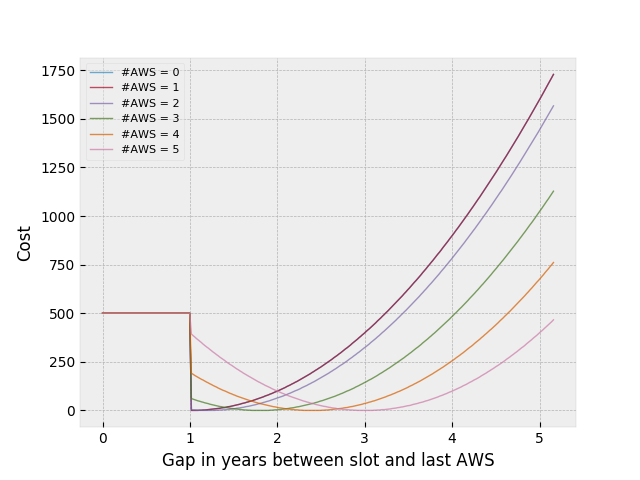
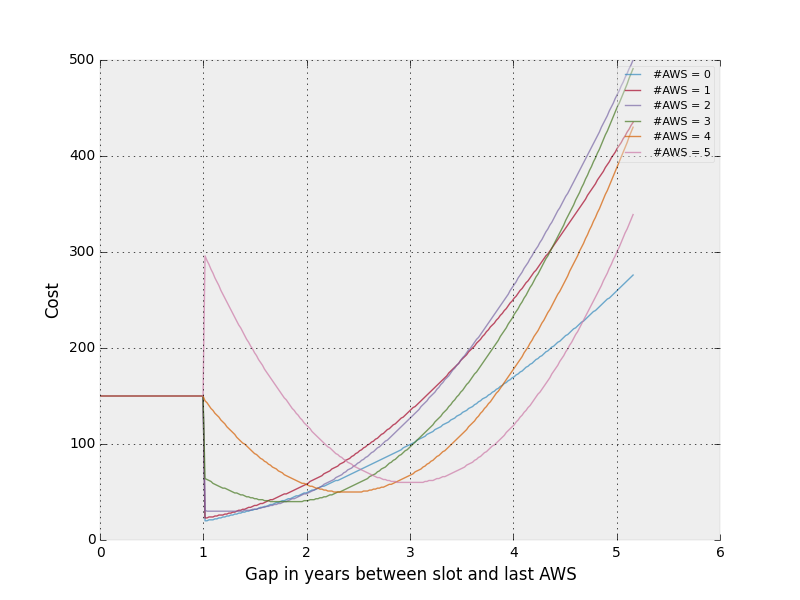
0.6 times gap.

diff --git a/compute_cost.py b/compute_cost.py
@@ -20,7 +20,8 @@ import math
 __fmt__ = '%Y-%m-%d'
 
 def parabola( x0, offset, x ):
-    ys = offset + offset * (x-x0) ** 2.0
+    minX = x0 * 0.6
+    ys = offset + offset * (x-minX) ** 2.0
     return ys
 
 def computeCost( slot_date, lastDate, nAWS ):
@@ -31,8 +32,8 @@ def computeCost( slot_date, lastDate, nAWS ):
         cost = 15
     else:
         cost = parabola( nAWS, nAWS + 1, nyears )
-
     return int(10 * cost)
+
 
 def random_date(start, end):
     """
@@ -45,8 +46,12 @@ def random_date(start, end):
     return start + datetime.timedelta(seconds=random_second)
 
 def test( ):
-    import pylab
-    pylab.style.use( 'ggplot' )
+    import matplotlib as mpl
+    import matplotlib.pyplot as plt
+    mpl.style.use( 'bmh' )
+    mpl.rcParams['axes.linewidth'] = 0.2
+    mpl.rcParams['lines.linewidth'] = 1.0
+    mpl.rcParams['text.usetex'] = False
     # Generate random test data.
     start = datetime.datetime.strptime( '2017-03-18', __fmt__ )
     end = datetime.datetime.strptime( '2021-03-18', __fmt__  )
@@ -56,12 +61,12 @@ def test( ):
             date = start + datetime.timedelta( days = i * 7 )
             xval.append( (date - start).days / 365.0 )
             yval.append( computeCost( date, start, naws ) )
-        pylab.xlabel( 'Gap in years between slot and last AWS' )
-        pylab.ylabel( 'Cost' )
-        pylab.plot( xval, yval, alpha = 0.7, label = '#AWS = %d' % naws )
-        pylab.legend( framealpha = 0.4, fontsize = 8 )
+        plt.xlabel( 'Gap in years between slot and last AWS' )
+        plt.ylabel( 'Cost' )
+        plt.plot( xval, yval, alpha = 0.7, label = '#AWS = %d' % naws )
+        plt.legend( framealpha = 0.4, fontsize = 8 )
 
-    pylab.savefig( "%s.png" % sys.argv[0] )
+    plt.savefig( "%s.png" % sys.argv[0] )
 
 
 if __name__ == '__main__':
